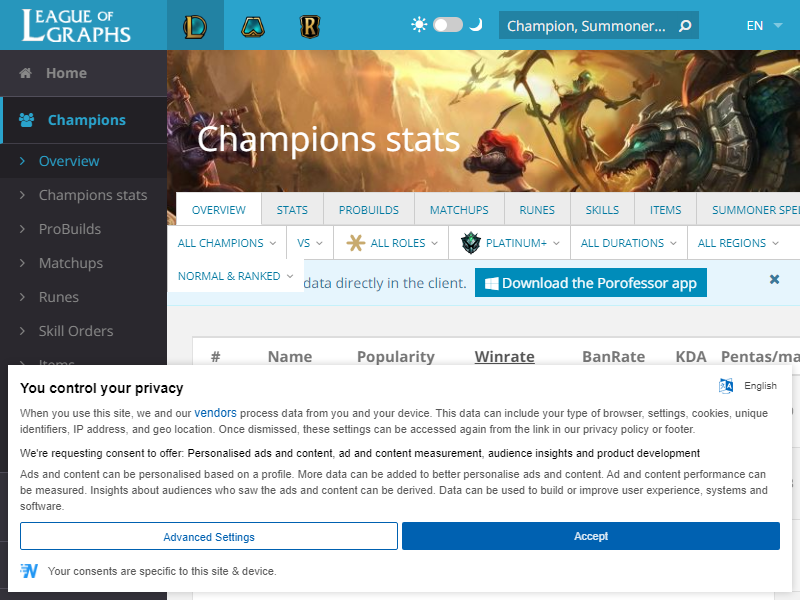
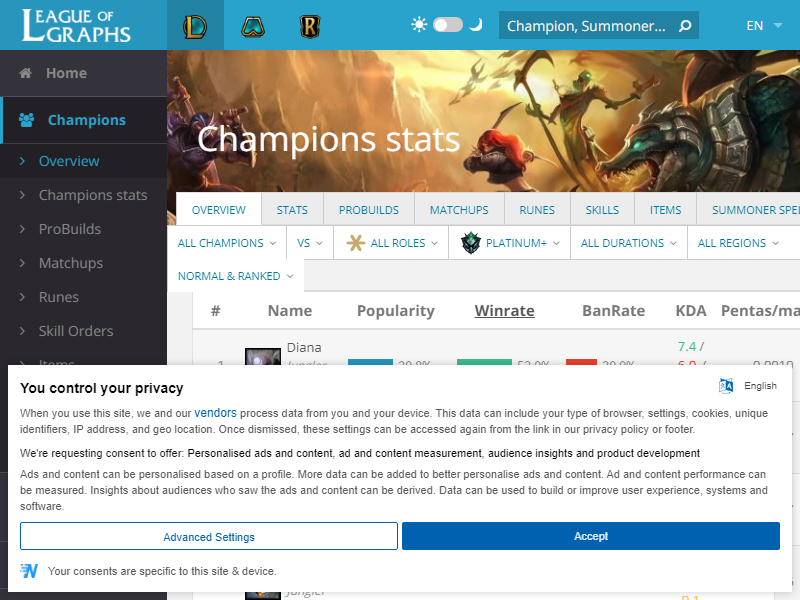
Returning win rates > 0 instead of > 51

Changed region(s): [[0.2188, 0.42, 1.0, 0.63], [0.2812, 0.96, 0.4062, 1.0], [0.8438, 0.99, 0.875, 1.0]]

diff --git a/src/repositories/LolRateRepository.ts b/src/repositories/LolRateRepository.ts
@@ -26,8 +26,8 @@ export default class LolRateRepository extends Repository<LolRate> {
                            ("opggPick" + "lolgraphsPick")/2 as "avgPick",
                            ("opggWin" + "lolgraphsWin")/2 as "avgWin"
                       from "lol_rate") as avgs
-	         where avgs."avgWin" >= 51
-             order by "avgAvg" desc
+	         where  "avgWin" > 0
+             order by "avgAvg" desc 
         `)
     } catch (err) {}
   }
